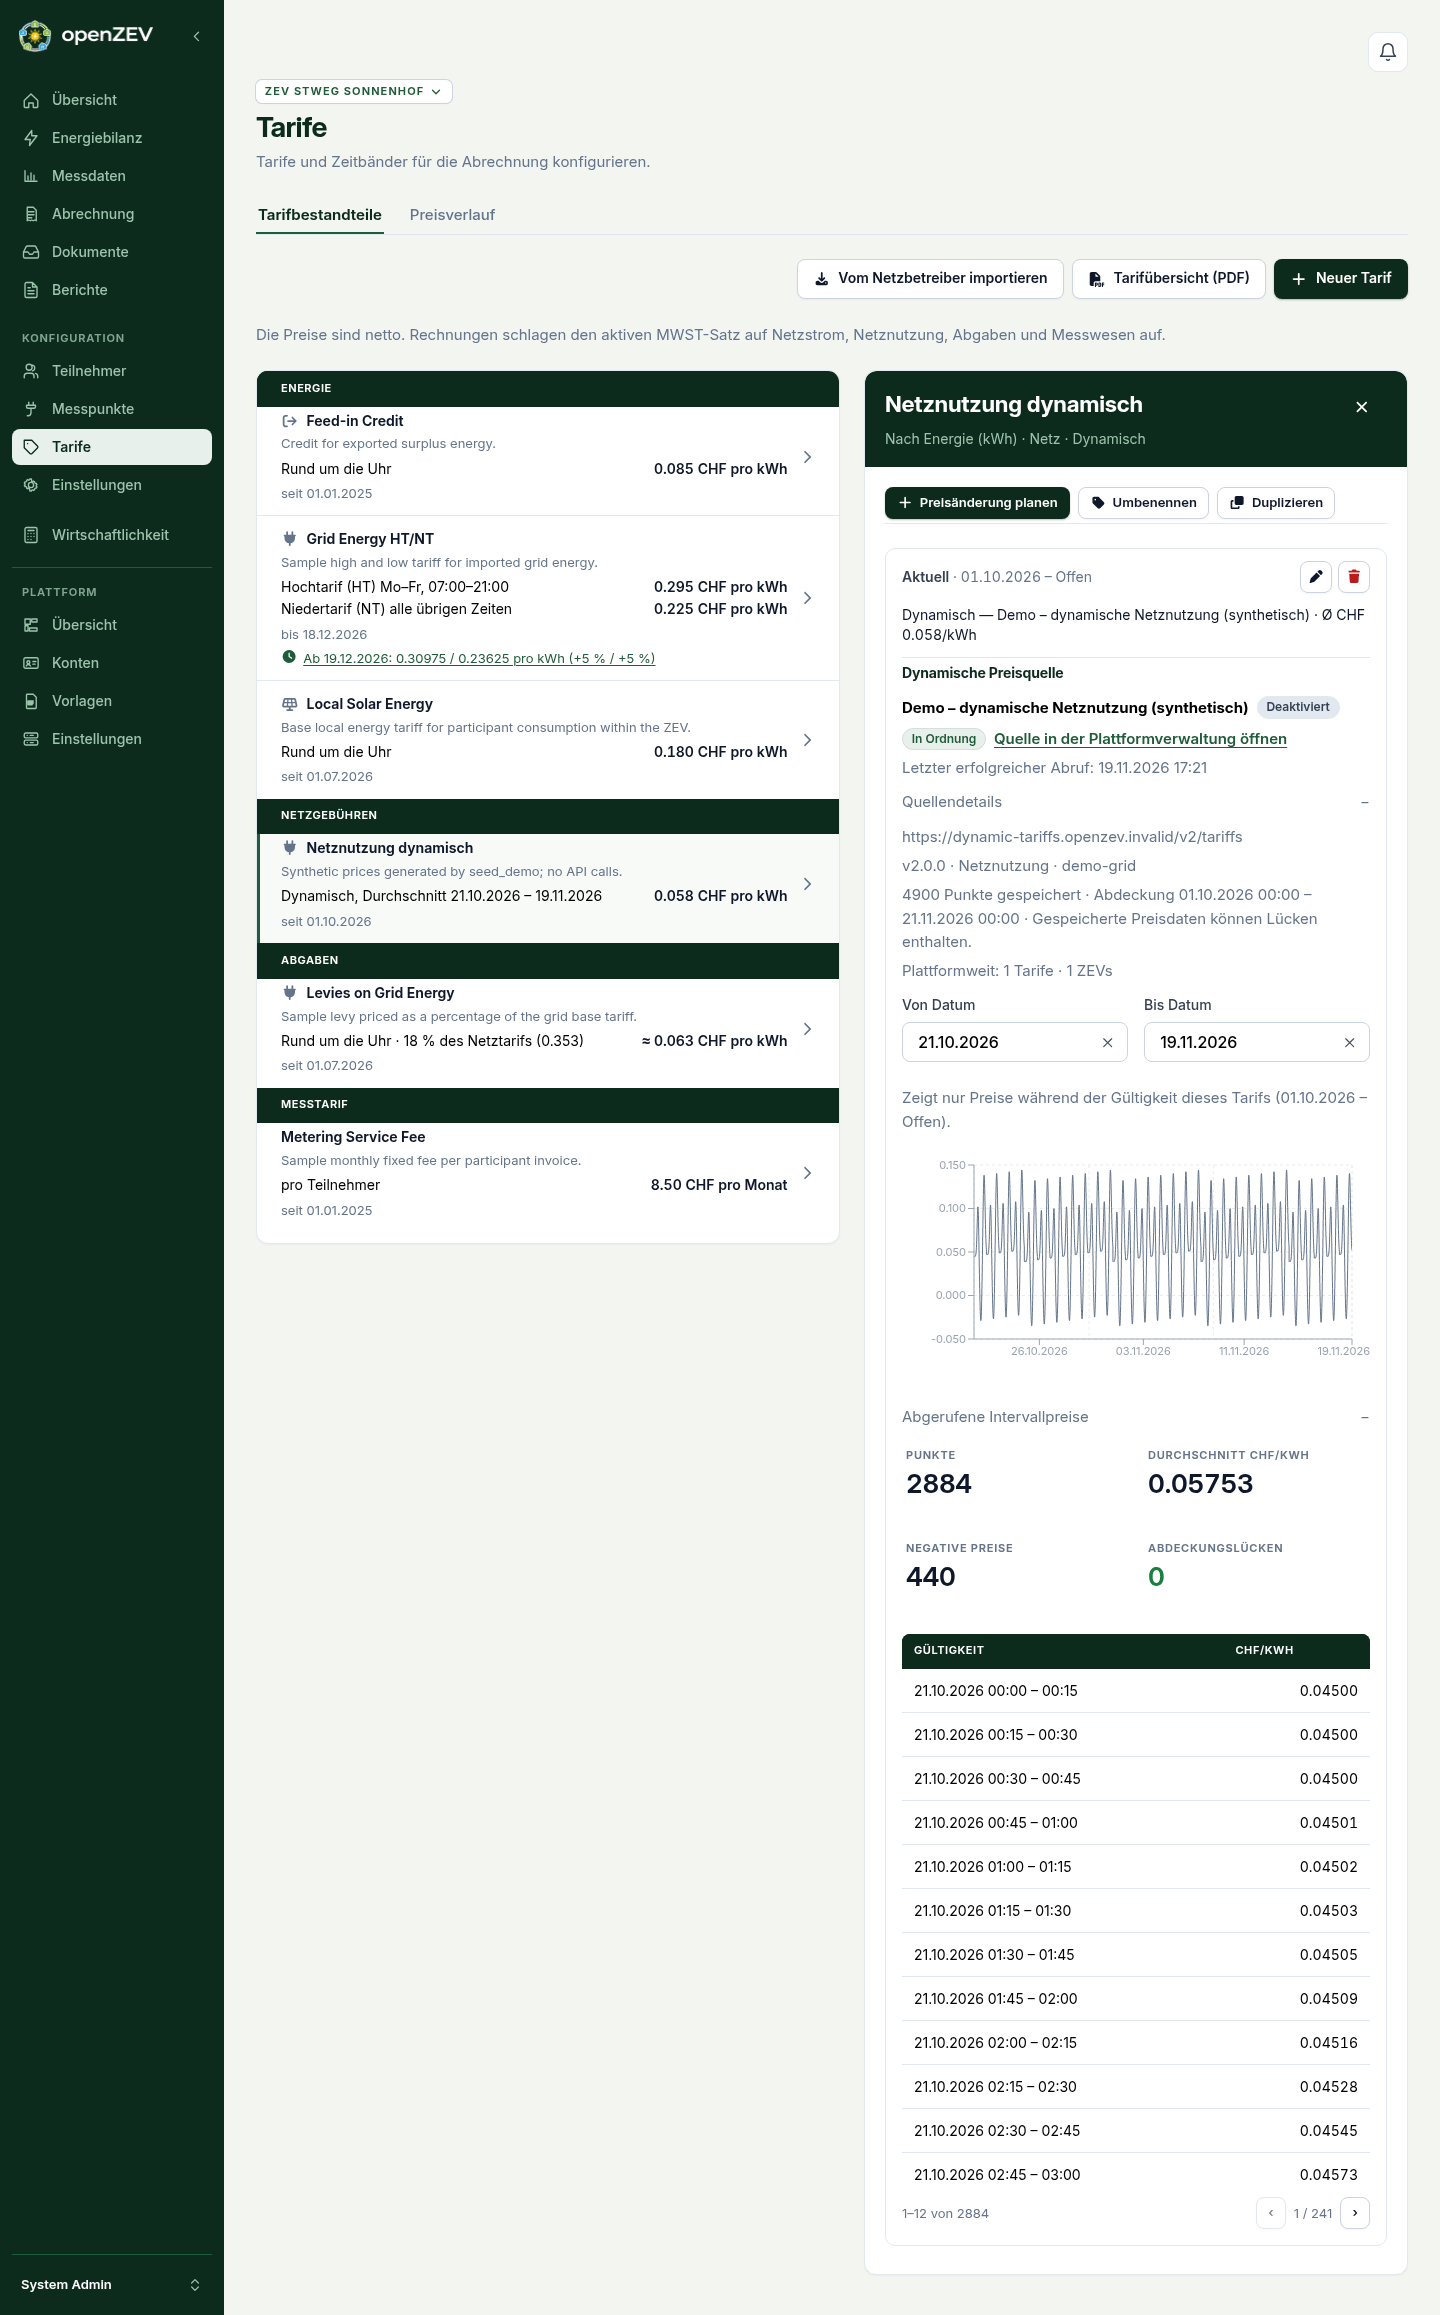
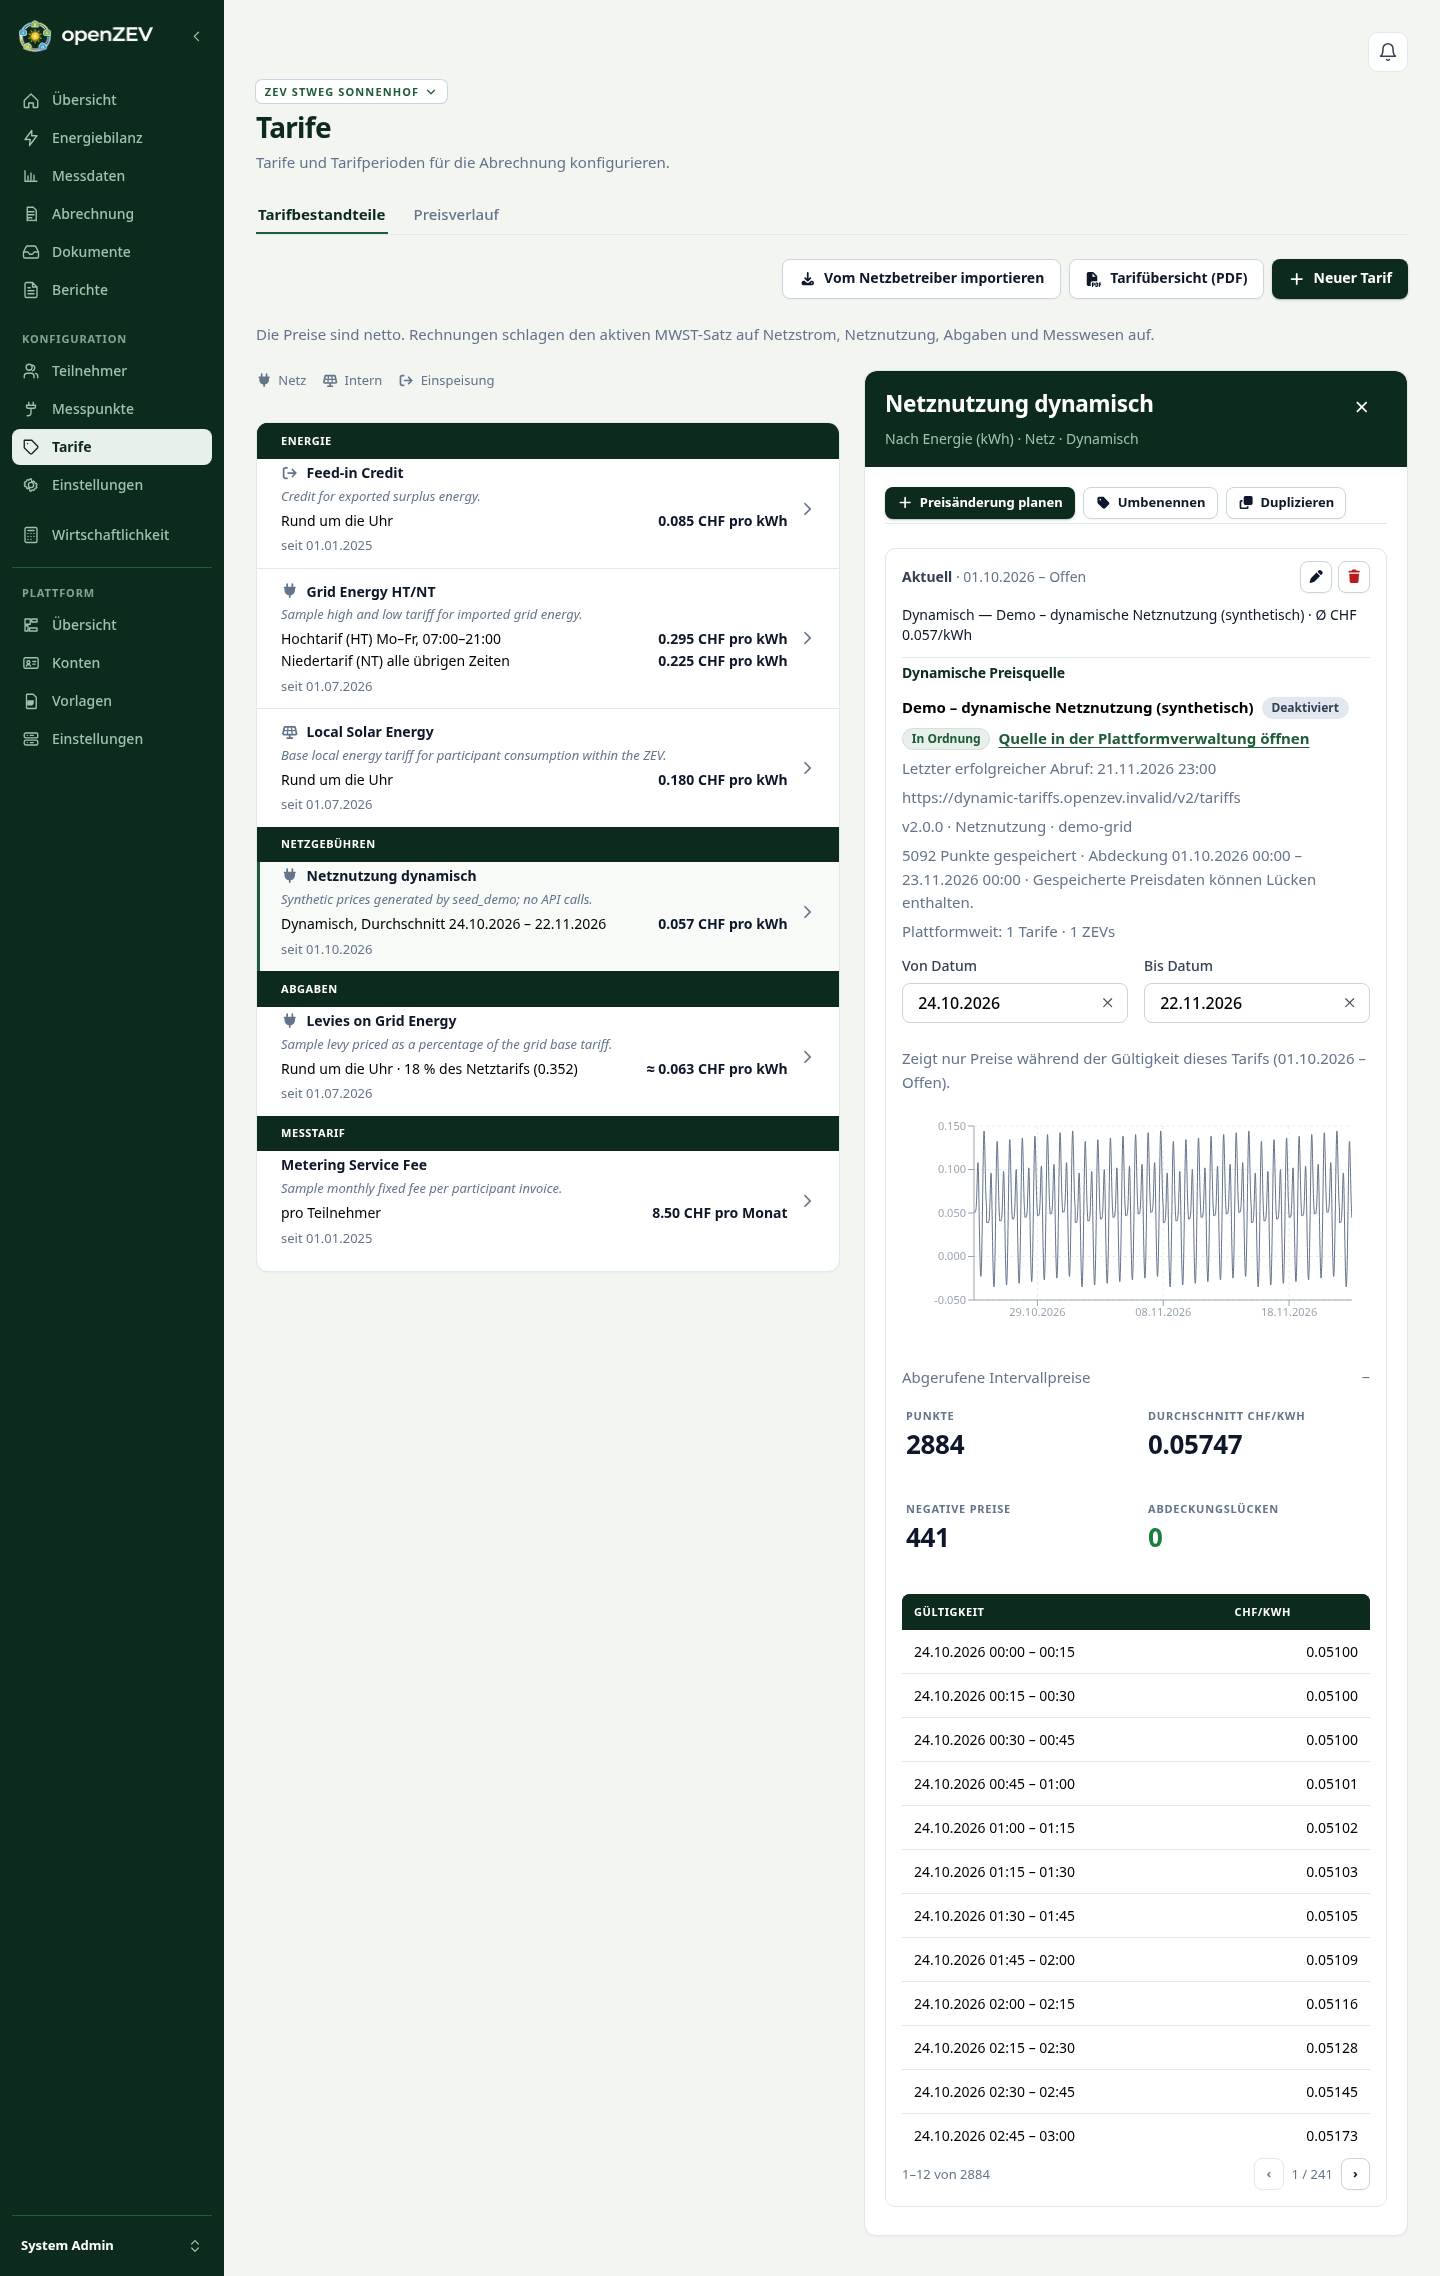
fix(tariffs): show a dynamic source's facts instead of folding them
URL, protocol, stored range and platform usage were behind a "Source
details" disclosure although they are four short lines that fit on the
screen. Show them under the status and drop the unused label.

diff --git a/frontend/src/features/tariffs/DynamicSourceSummary.tsx b/frontend/src/features/tariffs/DynamicSourceSummary.tsx
@@ -2,15 +2,13 @@ import { Link } from 'react-router-dom'
 import { useTranslation } from 'react-i18next'
 import { formatDateTime } from '../../lib/appSettings'
 import type { AppSettings, DynamicPriceHistory, DynamicTariffSource } from '../../types/api'
-import { Disclosure } from '../../components/Disclosure'
 import { DynamicFetchFailure } from './DynamicFetchFailure'
 import { Badge } from '../../components/Badge'
 import { missingPriceDates, missingRangeLabel } from './dynamicPriceGaps'
 
 /**
- * Shared-source facts beside the linked tariff: which source and whether it is
- * delivering, up front; where it is fetched from and what it covers, on
- * demand. Maintenance stays in the platform hub, which only an admin can open.
+ * Shared-source facts beside the linked tariff. Maintenance stays in the
+ * platform hub, which only an admin can open.
  *
  * `missing` are the stretches of already-elapsed time the stored series has no
  * price for (see `useElapsedPriceGaps`); they are said up front, as dates.
@@ -46,27 +44,23 @@ export function DynamicSourceSummary({ source, settings, canOperate, missing = [
                     <p className="m-0">{t('pages.dynamicSources.history.missingEffect')}</p>
                 </div>
             )}
-            <Disclosure lazy summary={t('pages.dynamicSources.sourceDetails')}>
-                <div className="tariff-source-summary">
-                    <p className="muted" style={{ margin: 0, overflowWrap: 'anywhere' }}>{source.url}</p>
-                    <p className="muted m-0">
-                        {t(`pages.dynamicSources.versions.${source.api_version}`)}
-                        {' · '}{t(`pages.dynamicSources.types.${source.tariff_type}`)}
-                        {source.tariff_name ? ` · ${source.tariff_name}` : ''}
-                    </p>
-                    <p className="muted m-0">
-                        {source.point_count > 0 ? t('pages.dynamicSources.history.coverage', {
-                            from: formatDateTime(source.covers_from, settings),
-                            to: formatDateTime(source.covers_to, settings),
-                            count: source.point_count,
-                        }) : t('pages.dynamicSources.noCoverage')}
-                        {source.point_count > 0 && <>{' · '}{t('pages.dynamicSources.coverageHint')}</>}
-                    </p>
-                    <p className="muted m-0">
-                        {t('pages.dynamicSources.globalReuseSummary', { tariffs: source.linked_tariff_count, zevs: source.linked_zev_count })}
-                    </p>
-                </div>
-            </Disclosure>
+            <p className="muted" style={{ margin: 0, overflowWrap: 'anywhere' }}>{source.url}</p>
+            <p className="muted m-0">
+                {t(`pages.dynamicSources.versions.${source.api_version}`)}
+                {' · '}{t(`pages.dynamicSources.types.${source.tariff_type}`)}
+                {source.tariff_name ? ` · ${source.tariff_name}` : ''}
+            </p>
+            <p className="muted m-0">
+                {source.point_count > 0 ? t('pages.dynamicSources.history.coverage', {
+                    from: formatDateTime(source.covers_from, settings),
+                    to: formatDateTime(source.covers_to, settings),
+                    count: source.point_count,
+                }) : t('pages.dynamicSources.noCoverage')}
+                {source.point_count > 0 && <>{' · '}{t('pages.dynamicSources.coverageHint')}</>}
+            </p>
+            <p className="muted m-0">
+                {t('pages.dynamicSources.globalReuseSummary', { tariffs: source.linked_tariff_count, zevs: source.linked_zev_count })}
+            </p>
         </div>
     )
 }

diff --git a/frontend/tests/dynamic-source-summary.test.ts b/frontend/tests/dynamic-source-summary.test.ts
@@ -1,10 +1,8 @@
 import { createElement } from 'react'
-import { act } from 'react'
 import { renderToStaticMarkup } from 'react-dom/server'
 import { MemoryRouter } from 'react-router-dom'
-import { afterEach, describe, expect, it, vi } from 'vitest'
+import { describe, expect, it, vi } from 'vitest'
 import { DynamicSourceSummary } from '../src/features/tariffs/DynamicSourceSummary'
-import { renderWithProviders } from './helpers/render'
 import type { AppSettings, DynamicTariffSource } from '../src/types/api'
 
 vi.mock('react-i18next', () => ({ useTranslation: () => ({ t: (key: string) => key }) }))
@@ -25,27 +23,16 @@ function render(overrides: Partial<DynamicTariffSource> = {}, canOperate = true,
         createElement(DynamicSourceSummary, { source: { ...source, ...overrides }, settings: {} as AppSettings, canOperate, missing: gaps })))
 }
 
-const cleanups: (() => void)[] = []
-afterEach(() => cleanups.splice(0).forEach((cleanup) => cleanup()))
-
-// The source's address and coverage sit in a disclosure, mounted when opened.
-async function renderDetails(overrides: Partial<DynamicTariffSource> = {}) {
-    const { container } = await renderWithProviders(
-        createElement(DynamicSourceSummary, { source: { ...source, ...overrides }, settings: {} as AppSettings, canOperate: true }), cleanups)
-    await act(async () => { container.querySelector('summary')!.click() })
-    return container.innerHTML
-}
-
 describe('DynamicSourceSummary', () => {
-    it('keeps the address and coverage behind the source details until they are opened', () => {
+    it('shows the address and coverage in view, not behind a disclosure', () => {
         const html = render({ point_count: 12, covers_from: '2026-09-01', covers_to: '2026-10-01' })
-        expect(html).toContain('pages.dynamicSources.sourceDetails')
-        expect(html).not.toContain('prices.example.test')
-        expect(html).not.toContain('pages.dynamicSources.history.coverage')
+        expect(html).toContain('prices.example.test')
+        expect(html).toContain('pages.dynamicSources.history.coverage')
+        expect(html).not.toContain('<details')
     })
 
-    it('shows no stored coverage without warning about gaps in an empty source', async () => {
-        const html = await renderDetails()
+    it('shows no stored coverage without warning about gaps in an empty source', () => {
+        const html = render()
         expect(html).toContain('pages.dynamicSources.noCoverage')
         expect(html).not.toContain('pages.dynamicSources.coverageHint')
         expect(html).not.toContain('pages.dynamicSources.history.coverage')
@@ -56,8 +43,8 @@ describe('DynamicSourceSummary', () => {
         expect(render({ last_success_at: '2026-10-01T12:00:00Z' })).toContain('pages.dynamicSources.lastSuccess')
     })
 
-    it('shows stored coverage and the gap hint when points exist', async () => {
-        const html = await renderDetails({ point_count: 12, covers_from: '2026-09-01', covers_to: '2026-10-01' })
+    it('shows stored coverage and the gap hint when points exist', () => {
+        const html = render({ point_count: 12, covers_from: '2026-09-01', covers_to: '2026-10-01' })
         expect(html).toContain('pages.dynamicSources.history.coverage')
         expect(html).toContain('pages.dynamicSources.coverageHint')
         expect(html).not.toContain('pages.dynamicSources.noCoverage')

diff --git a/frontend/screenshots/capture.spec.ts b/frontend/screenshots/capture.spec.ts
@@ -409,9 +409,7 @@ test.describe('User Guide Screenshots', () => {
     await screenshotFull(page, '07f-tariff-create-bands')
   })
 
-  // 07d — A dynamic tariff's detail pane: its source with the details
-  // disclosure opened, and the fetched prices below it. Their point table is
-  // paged (12 rows), so opening it does not grow the capture.
+  // 07d — Dynamic source and fetched prices.
   test('07d-tariff-dynamic-source', async ({ page }) => {
     await requireDemoDynamicSource(page)
     await navigateTo(page, '/tariffs')
@@ -419,9 +417,7 @@ test.describe('User Guide Screenshots', () => {
     await row.waitFor({ timeout: 10_000 })
     await row.click()
     const pane = page.locator('.detail-pane')
-    const details = pane.locator('.tariff-period-section .disclosure > summary').first()
-    await details.click()
-    await expect(pane.locator('.tariff-period-section .disclosure[open]'), `Dynamic source details missing — ${SEED_HINT}`).toBeVisible()
+    await expect(pane.locator('.tariff-source-summary'), `Dynamic source details missing — ${SEED_HINT}`).toContainText('https://')
     await pane.locator('.disclosure > summary', { hasText: 'Abgerufene Intervallpreise' }).click()
     await expect(pane.locator('.data-table tbody tr'), `Fetched prices missing — ${SEED_HINT}`).toHaveCount(12)
     await screenshotFull(page, '07d-tariff-dynamic-source')

diff --git a/frontend/screenshots/hub-workflow-links.spec.ts b/frontend/screenshots/hub-workflow-links.spec.ts
@@ -106,9 +106,7 @@ for (const role of ['admin', 'manager', 'viewer'] as const) {
     await expect(drawer).toBeVisible()
     await expect(drawer).toContainText('Disabled')
     await expect(drawer).toContainText('Operator unavailable')
-    // Where the source is fetched from and what it covers sit in a disclosure.
-    await expect(drawer).not.toContainText('Across the platform')
-    await drawer.getByText('Source details', { exact: true }).click()
+    // Where the source is fetched from and what it covers are in view.
     await expect(drawer).toContainText('Across the platform: 7 tariffs · 3 ZEVs')
     await expect(drawer).toContainText('Stored coverage may contain gaps')
     const operations = drawer.getByRole('link', { name: 'Manage source in platform admin' })

diff --git a/frontend/src/i18n/locales/fr.ts b/frontend/src/i18n/locales/fr.ts
@@ -2899,7 +2899,6 @@ export const fr = {
             noCoverage: "Aucun prix enregistré pour le moment.",
             coverageHint: 'Les données enregistrées peuvent contenir des lacunes.',
             manageSource: 'Gérer la source dans l’administration de la plateforme',
-            sourceDetails: 'Détails de la source',
             showAllSources: "Afficher toutes les sources",
             sourceFilter: 'Source : {{label}}',
             sourceNotFound: 'Source introuvable.',

diff --git a/frontend/src/i18n/locales/it.ts b/frontend/src/i18n/locales/it.ts
@@ -2899,7 +2899,6 @@ export const it = {
             noCoverage: "Nessun prezzo memorizzato per ora.",
             coverageHint: 'I dati memorizzati possono contenere lacune.',
             manageSource: 'Gestisci la fonte nell’amministrazione della piattaforma',
-            sourceDetails: 'Dettagli della fonte',
             showAllSources: "Mostra tutte le fonti",
             sourceFilter: 'Fonte: {{label}}',
             sourceNotFound: 'Fonte non trovata.',

diff --git a/frontend/src/i18n/locales/de.ts b/frontend/src/i18n/locales/de.ts
@@ -2899,7 +2899,6 @@ export const de = {
             noCoverage: "Noch keine gespeicherten Preise.",
             coverageHint: 'Gespeicherte Preisdaten können Lücken enthalten.',
             manageSource: 'Quelle in der Plattformverwaltung öffnen',
-            sourceDetails: 'Quellendetails',
             showAllSources: "Alle Quellen anzeigen",
             sourceFilter: 'Quelle: {{label}}',
             sourceNotFound: 'Quelle nicht gefunden.',

diff --git a/frontend/src/i18n/locales/en.ts b/frontend/src/i18n/locales/en.ts
@@ -2910,7 +2910,6 @@ export const en = {
             noCoverage: "No stored prices yet.",
             coverageHint: 'Stored coverage may contain gaps.',
             manageSource: 'Manage source in platform admin',
-            sourceDetails: 'Source details',
             showAllSources: "Show all sources",
             sourceFilter: 'Source: {{label}}',
             sourceNotFound: 'Source not found.',

diff --git a/docs/user-guide/07-tariff-configuration.md b/docs/user-guide/07-tariff-configuration.md
@@ -272,7 +272,7 @@ moment, negative prices included.
 Managers can choose an existing shared source or create a new source from
 the energy-tariff form. Viewers can inspect linked sources and price history.
 Click a dynamic tariff to see its source name, fetch status and last
-successful fetch. **Source details** unfolds the endpoint, protocol, product,
+successful fetch, followed by the endpoint, protocol, product,
 stored coverage and usage. Usage counts cover the whole platform.
 
 Below the source, the pane charts the fetched prices of the last 30 days of the
@@ -289,7 +289,7 @@ table, twelve rows at a time, with previous and next buttons under it.
 Administrators can follow **Manage source in platform admin** to its operational
 row; managers create and reuse sources in the tariff form.
 
-![A dynamic tariff's detail pane with its source details](screenshots/07d-tariff-dynamic-source.png)
+![A dynamic tariff's detail pane with its source facts](screenshots/07d-tariff-dynamic-source.png)
 
 ### Reading a dynamic tariff's price
 

diff --git a/docs/specs/2026-09-dynamic-tariffs.md b/docs/specs/2026-09-dynamic-tariffs.md
@@ -722,7 +722,7 @@ label, fetch status, disabled state, last success and user-safe fetch error
 up front. Failed fetches use the shared red `badge-danger` pill, matching
 failed source statuses in the admin source table, its activity dialog and audit logs.
 The endpoint, protocol, component/product, stored range/point
-count and global linked-tariff/ZEV totals sit in a “Source details” disclosure. A positive point count shows stored coverage and a gap
+count and global linked-tariff/ZEV totals are shown directly under the status, not in a disclosure. A positive point count shows stored coverage and a gap
 hint; zero points show “No stored prices yet.” Last success is shown only when
 its timestamp is present. The history panel is scoped to the shown tariff's validity.
 When the stored series has no price for time that has already passed, the summary
